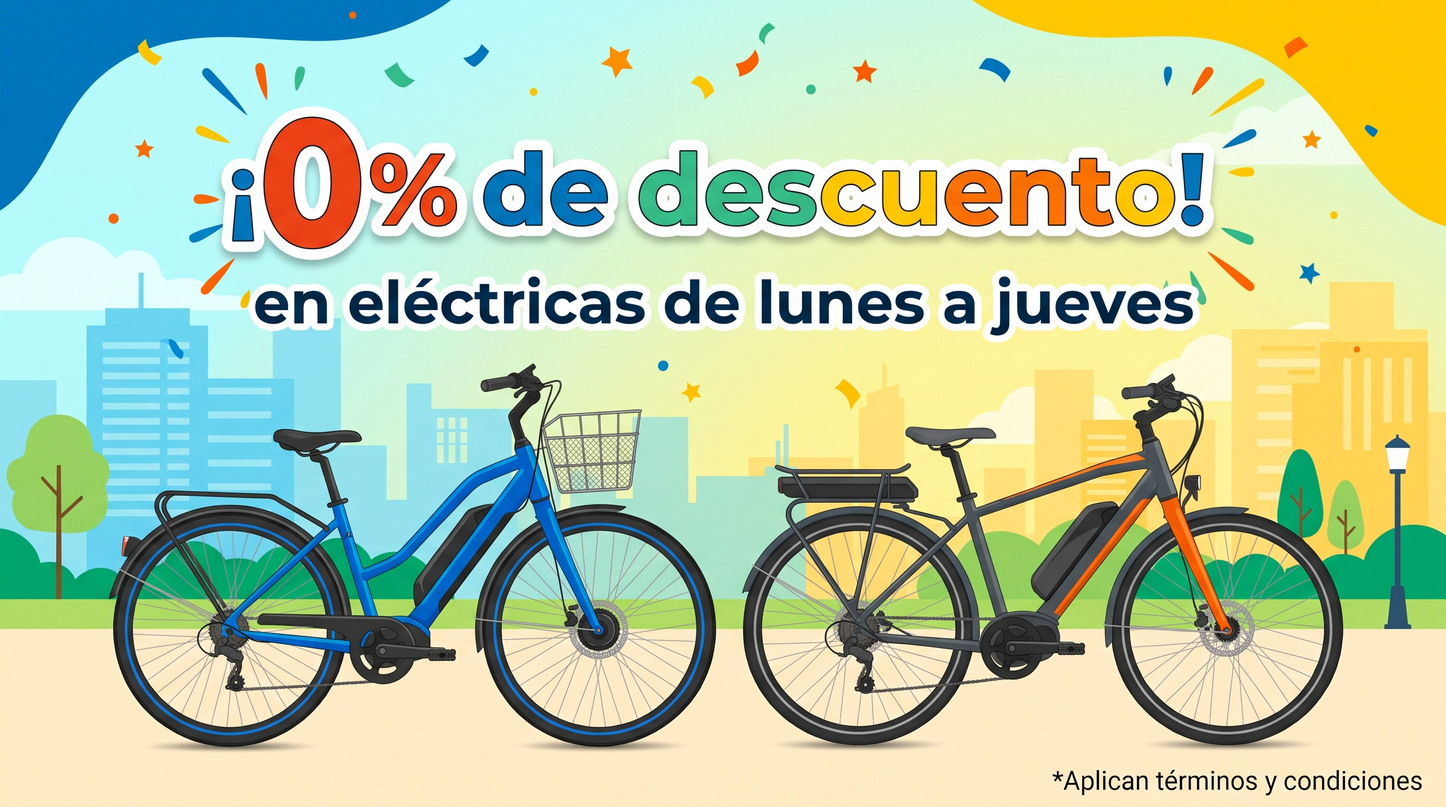
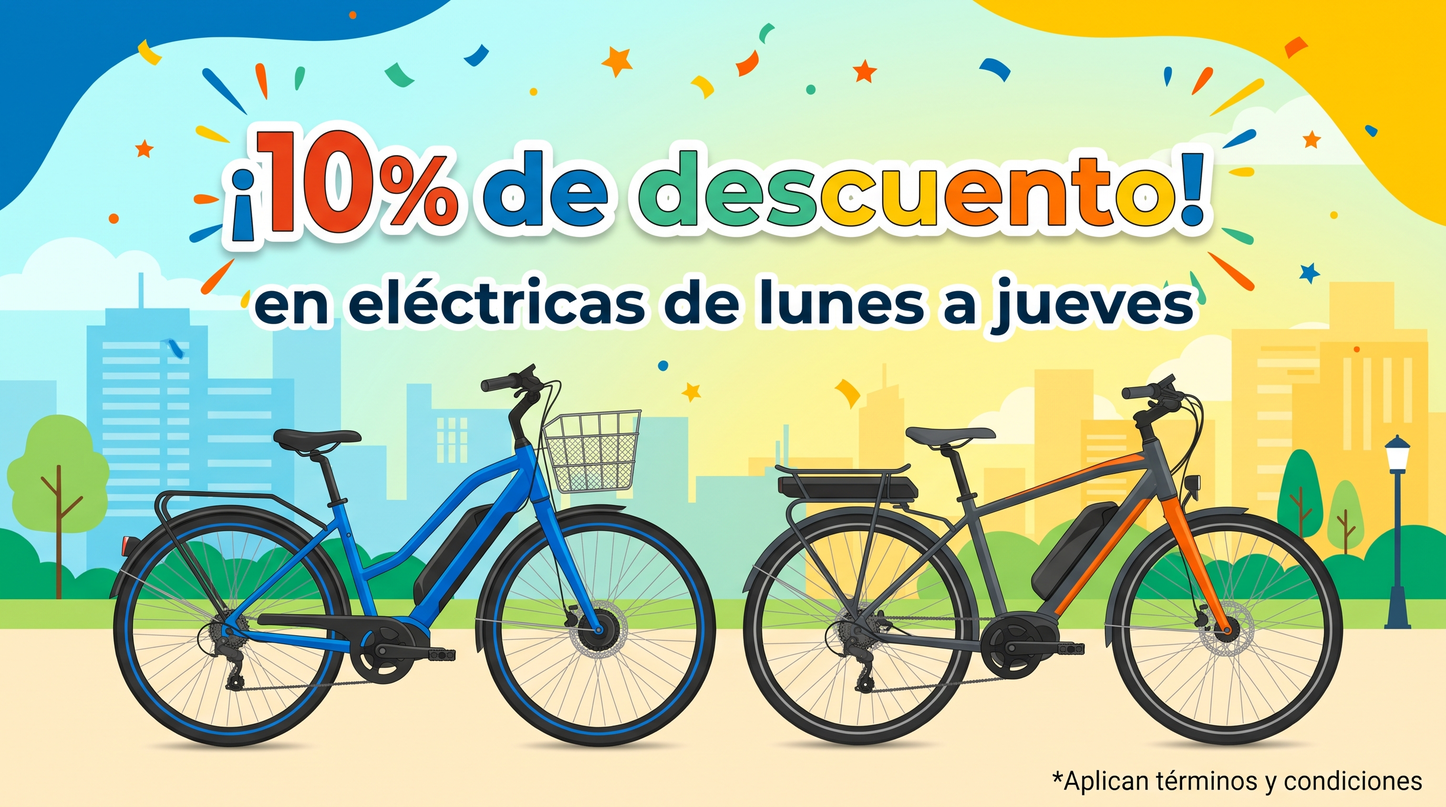
fix: Se organizar carrucel nuevamente, tambien la clase "carousel slide"

diff --git a/rueda-libre-v1/index.html b/rueda-libre-v1/index.html
@@ -206,35 +206,36 @@
         </ul>
       </section>
 
-      <section>
-  
+
+  <section>
         <h2>Promociones</h2>
         <p>
           Aprovecha nuestras promociones y descuentos especiales para alquilar
           bicicletas.
         </p>
 
-        <div id="carouselExample" class="carousel slide">
-  <div class="carousel-inner">
-    <div class="carousel-item active">
-      <img src="img/bicicumple.jpg" class="d-block w-60" alt="promoción cumpleaños" />
-    </div>
-    <div class="carousel-item">
-      <img src="img/bicimartes.jpg" class="d-block w-60" alt="promoción martes" />
-    </div>
-    <div class="carousel-item">
-      <img src="img/descuentosbici.jpg" class="d-block w-60" alt="promoción descuentos" />
-    </div>
-  </div>
-  <button class="carousel-control-prev" type="button" data-bs-target="#carouselExample" data-bs-slide="prev">
-    <span class="carousel-control-prev-icon" aria-hidden="true"></span>
-    <span class="visually-hidden">Anterior</span>
-  </button>
-  <button class="carousel-control-next" type="button" data-bs-target="#carouselExample" data-bs-slide="next">
-    <span class="carousel-control-next-icon" aria-hidden="true"></span>
-    <span class="visually-hidden">Siguiente</span>
-  </button>
-</div>
+        <div id="Ofertas" class="carousel slide" data-bs-ride="carousel">
+          <div class="carousel-inner">
+          <div class="carousel-item active">
+            <img src="img/bicimartes.jpg" class="d-block w-100" alt="Promoción: Martes 2x1 en bicicletas urbanas. Dos bicicletas urbanas, una verde y una naranja, en un parque con globos y confeti." />
+          </div>
+          <div class="carousel-item">
+            <img src="img/descuentosbici.jpg" class="d-block w-100" alt="Promoción: descuento en bicicletas eléctricas de lunes a jueves. Dos bicicletas eléctricas, una azul y una gris con naranja, en un parque." />
+          </div>
+          <div class="carousel-item">
+            <img src="img/bicicumple.jpg" class="d-block w-100" alt="Promoción: si cumples años, ven a celebrarlo con nosotros. Dos bicicletas decoradas con globos, regalos y un pastel de cumpleaños." />
+          </div>
+          </div>
+
+          <button class="carousel-control-prev" type="button" data-bs-target="#Ofertas" data-bs-slide="prev">
+            <span class="carousel-control-prev-icon" aria-hidden="true"></span>
+            <span class="visually-hidden">Anterior</span>
+          </button>
+          <button class="carousel-control-next" type="button" data-bs-target="#Ofertas" data-bs-slide="next">
+            <span class="carousel-control-next-icon" aria-hidden="true"></span>
+            <span class="visually-hidden">Siguiente</span>
+          </button>
+        </div>
       </section>
 
 

diff --git a/rueda-libre-v1/css/styles.css b/rueda-libre-v1/css/styles.css
@@ -416,3 +416,15 @@ img {
   height: auto;
   display: block;
 }
+
+
+
+/**Los botones del carrucel **/
+
+.visually-hidden-title {
+  @include visually-hidden;
+}
+
+.skip-navigation {
+  @include visually-hidden-focusable;
+}
